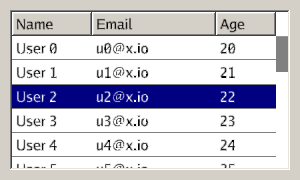
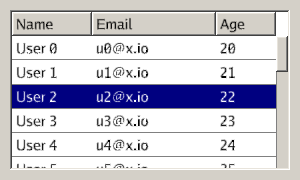
feat(controls): classic restyle — scrollbar thumb, gradient titlebar
Render-only restyle of the scroll thumb (shared by ScrollViewer and the
virtualizer behind ListView/DataGrid) and TitleBar:

- Scroll thumb: replaces the translucent rounded-fill thumb with a flat
  ButtonFace track (1px ButtonShadow inner groove) plus a solid raised
  bevel thumb (bevel.go: new drawScrollThumb helper, used by all three
  draw sites — ScrollViewer, ListView, DataGrid).
- TitleBar: caption background is now a CaptionFrom->CaptionTo horizontal
  gradient (DrawGradientRect), title text recolored CaptionText, and the
  three caption buttons are always-visible raised ButtonFace squares
  (sunken while pressed) with WindowText glyphs — dropping the old
  transparent-at-rest fill and the CloseButtonHover red entirely (classic
  Win2000 close is a plain gray button, not red on hover).

No geometry/drag-math/layout changes; behavior tests pass unchanged.
Regenerated the four affected goldens (scroll, listview, datagrid,
titlebar) and visually confirmed each.

Changed region(s): [[0.9, 0.1944, 0.96, 0.9444]]

diff --git a/controls/titlebar.go b/controls/titlebar.go
@@ -22,9 +22,8 @@ const (
 const captionGlyphSize float32 = 10
 
 // captionKind identifies which of the three caption buttons a captionButton
-// is, driving both its hover fill (close gets the distinct CloseButtonHover
-// red; minimize/maximize get the ordinary ControlFillHover/Pressed) and
-// which glyph shape Render draws.
+// is, driving only which glyph shape Render draws — all three share the
+// same classic raised/sunken bevel look (see Render's doc comment).
 type captionKind uint8
 
 const (
@@ -35,13 +34,12 @@ const (
 
 // captionButton is TitleBar's caption-cell widget: a fixed-size
 // (captionButtonWidth x titleBarHeight), always-enabled, ClickBehavior-
-// driven cell. It draws no text label — Render paints a hover/pressed fill
-// (fully transparent at rest, so the TitleBar's own LayerBackground fill
-// shows through) and a small drawn shape glyph (a line, a square outline, or
-// an X) rather than a text/font glyph: drawn shapes render identically
-// regardless of what glyphs a font happens to carry, unlike e.g. CheckBox's
-// U+2713 fallback dance (see hasCheckmarkGlyph) — simpler and more reliable
-// for chrome this small.
+// driven cell. It draws no text label — Render paints a classic raised
+// (sunken while pressed) bevel and a small drawn shape glyph (a line, a
+// square outline, or an X) rather than a text/font glyph: drawn shapes
+// render identically regardless of what glyphs a font happens to carry,
+// unlike e.g. CheckBox's U+2713 fallback dance (see hasCheckmarkGlyph) —
+// simpler and more reliable for chrome this small.
 type captionButton struct {
 	core.Element
 
@@ -66,41 +64,22 @@ func (b *captionButton) MeasureContent(available render.Size) render.Size {
 	return render.Size{W: captionButtonWidth, H: titleBarHeight}
 }
 
-// fill resolves the cell's background: fully transparent at rest, else
-// ControlFillHover/ControlFillPressed for minimize/maximize, or the
-// distinct CloseButtonHover red for close — for BOTH its hover and pressed
-// states, matching the conventional close button (which uses one red for both,
-// relying on the OS compositor's press-flash for pressed feedback, not a
-// second red shade — fluo does not attempt to reproduce that flash here).
-func (b *captionButton) fill() render.Color {
-	hot := b.click.Hover() || b.click.Pressed()
-	if !hot {
-		return render.Color{}
-	}
-	if b.kind == captionClose {
-		return b.colors.CloseButtonHover
-	}
-	if b.click.Pressed() {
-		return b.colors.ControlFillPressed
-	}
-	return b.colors.ControlFillHover
-}
-
-// glyphColor is TextPrimary normally, or AccentText (white, in both bundled
-// themes) while the close button's red fill is showing, for contrast.
-func (b *captionButton) glyphColor() render.Color {
-	if b.kind == captionClose && (b.click.Hover() || b.click.Pressed()) {
-		return b.colors.AccentText
-	}
-	return b.colors.TextPrimary
-}
-
-// Render paints the hover/pressed fill (if any, per fill) then the button's
-// glyph shape, both centered within the cell's own bounds.
+// Render paints the button's classic bevel — raised at rest and while
+// hovered, sunken while pressed (drawRaised/drawSunken, the same two states
+// any other push button in this package uses) — then the button's glyph
+// shape in WindowText, both centered within the cell's own bounds. The OLD
+// look drew a fully transparent rest/hover fill with a distinct
+// CloseButtonHover red reserved for the close button (relying on the
+// TitleBar's own LayerBackground showing through at rest); the classic
+// restyle drops that entirely — a Win2000 close button is a plain gray
+// raised square, not red on hover — so all three caption buttons share one
+// look and only differ by glyph.
 func (b *captionButton) Render(r render.Renderer) {
 	bounds := b.Bounds()
-	if fill := b.fill(); fill.A > 0 {
-		r.FillRect(bounds, fill)
+	if b.click.Pressed() {
+		drawSunken(r, bounds, b.colors.ButtonFace, b.colors)
+	} else {
+		drawRaised(r, bounds, b.colors.ButtonFace, b.colors)
 	}
 
 	g := render.Rect{
@@ -108,7 +87,7 @@ func (b *captionButton) Render(r render.Renderer) {
 		Y: bounds.Y + (bounds.H-captionGlyphSize)/2,
 		W: captionGlyphSize, H: captionGlyphSize,
 	}
-	color := b.glyphColor()
+	color := b.colors.WindowText
 	switch b.kind {
 	case captionMinimize:
 		// A single horizontal line ("–") centered in the glyph box.
@@ -157,10 +136,13 @@ func dab(r render.Renderer, cx, cy, thickness float32, c render.Color) {
 }
 
 // TitleBar is a full-width, fixed-height (titleBarHeight) window-chrome
-// widget: a title label at the left (BodySize face, TextPrimary — the
+// widget: a title label at the left (BodySize face, CaptionText — the
 // caller supplies a BodySize face, matching every other control in this
 // package) and three caption buttons (minimize/maximize/close) right-
-// aligned (close rightmost), filled with LayerBackground.
+// aligned (close rightmost), over a CaptionFrom→CaptionTo horizontal
+// gradient (the classic active-caption look; TitleBar does not track
+// window active/inactive state, so it always draws the active gradient —
+// InactiveCaption is unused here).
 //
 // TitleBar knows nothing about the actual OS window: minimize/maximize/
 // close are just callbacks (OnMinimize/OnMaximize/OnClose), and dragging is
@@ -192,7 +174,7 @@ func NewTitleBar(face *text.Face, title string) *TitleBar {
 	t.colors = th.Color
 	t.metrics = th.Metric
 
-	t.title = NewTextBlock(face, title)
+	t.title = NewTextBlock(face, title).SetColor(t.colors.CaptionText)
 	core.SetParent(t.title, t)
 
 	t.min = newCaptionButton(captionMinimize)
@@ -296,10 +278,11 @@ func (t *TitleBar) ArrangeContent(bounds render.Rect) {
 	core.ArrangeWidget(t.title, render.Rect{X: tx, Y: ty, W: tw, H: titleD.H})
 }
 
-// Render fills the bar's own bounds with LayerBackground; the title and
-// caption buttons render separately as children (see Children).
+// Render paints the bar's own bounds with the classic active-caption
+// horizontal gradient (CaptionFrom -> CaptionTo); the title and caption
+// buttons render separately as children (see Children).
 func (t *TitleBar) Render(r render.Renderer) {
-	r.FillRect(t.Bounds(), t.colors.LayerBackground)
+	r.DrawGradientRect(t.Bounds(), t.colors.CaptionFrom, t.colors.CaptionTo, true)
 }
 
 // Children returns the title label and the three caption buttons, in that

diff --git a/controls/virtualizer.go b/controls/virtualizer.go
@@ -45,11 +45,12 @@ type virtualizer struct {
 	// thumb's top edge at drag start, exactly like ScrollViewer.dragGrabY.
 	dragGrabY float32
 
-	// gutter, thumbColor, and thumbRadius are captured from theme.Active()
-	// at construction, matching ScrollViewer's own capture convention.
-	gutter      float32
-	thumbColor  render.Color
-	thumbRadius float32
+	// gutter is captured from theme.Active() at construction, matching
+	// ScrollViewer's own capture convention. Thumb/track colors are NOT
+	// captured here: the owning control (ListView, DataGrid) already holds
+	// its own `colors theme.ColorTokens` field and passes it directly to
+	// drawScrollThumb from its own RenderOverlay.
+	gutter float32
 }
 
 // totalHeight returns rowH * count(), the full (unvirtualized) content
@@ -202,15 +203,13 @@ func (v *virtualizer) dragTo(posY float32) {
 // initVirtualizer captures the theme-derived fields every virtualizer-owning
 // control sets identically at construction (ListView, DataGrid — both
 // embed a virtualizer by value and call this from their own New* func):
-// the thumb gutter/color/radius (ScrollViewer's own conventions, per the
-// type doc comment above) and the default row height
-// (defaultRowHeight(face, t), in listview.go). v.count is deliberately left
-// for the caller to set afterward — that closure differs per owner (it
-// reads items.Len() for ListView, g.rowCount for DataGrid) and has no
-// theme-derived default to share.
+// the thumb gutter (ScrollViewer's own convention, per the type doc comment
+// above) and the default row height (defaultRowHeight(face, t), in
+// listview.go). v.count is deliberately left for the caller to set
+// afterward — that closure differs per owner (it reads items.Len() for
+// ListView, g.rowCount for DataGrid) and has no theme-derived default to
+// share.
 func initVirtualizer(v *virtualizer, face *text.Face, t *theme.Theme) {
 	v.gutter = t.Metric.ScrollGutter
-	v.thumbColor = t.Color.ScrollThumb
-	v.thumbRadius = t.Metric.ControlCornerRadius
 	v.rowH = defaultRowHeight(face, t)
 }

diff --git a/controls/scrollviewer.go b/controls/scrollviewer.go
@@ -45,12 +45,12 @@ type ScrollViewer struct {
 	// edge to the cursor.
 	dragGrabY float32
 
-	// gutter, thumbColor, and thumbRadius are captured from theme.Active()
-	// at construction (see NewScrollViewer); structural constants (thumb
-	// min height, wheel step) are not themed.
-	gutter      float32
-	thumbColor  render.Color
-	thumbRadius float32
+	// gutter is captured from theme.Active() at construction (see
+	// NewScrollViewer); structural constants (thumb min height, wheel step)
+	// are not themed. colors is the full classic token set, needed by
+	// RenderOverlay's drawScrollThumb call (raised thumb bevel + track).
+	gutter float32
+	colors theme.ColorTokens
 }
 
 // NewScrollViewer returns an empty ScrollViewer with no child and offset 0,
@@ -58,9 +58,8 @@ type ScrollViewer struct {
 func NewScrollViewer() *ScrollViewer {
 	t := theme.Active()
 	return &ScrollViewer{
-		gutter:      t.Metric.ScrollGutter,
-		thumbColor:  t.Color.ScrollThumb,
-		thumbRadius: t.Metric.ControlCornerRadius,
+		gutter: t.Metric.ScrollGutter,
+		colors: t.Color,
 	}
 }
 
@@ -232,15 +231,17 @@ func (s *ScrollViewer) thumbRect() (render.Rect, bool) {
 	return render.Rect{X: track.X, Y: thumbY, W: track.W, H: thumbH}, true
 }
 
-// RenderOverlay implements core.OverlayRenderer, drawing the thumb (a
-// rounded-rect fill in the theme's ScrollThumb color, captured at
-// construction) above the clipped child when there is content to scroll to.
+// RenderOverlay implements core.OverlayRenderer, drawing the classic
+// scrollbar track+thumb (drawScrollThumb — a flat ButtonFace track with a
+// raised ButtonFace thumb) above the clipped child when there is content to
+// scroll to.
 func (s *ScrollViewer) RenderOverlay(r render.Renderer) {
-	rect, ok := s.thumbRect()
+	track, _, ok := s.thumbGeometry()
 	if !ok {
 		return
 	}
-	r.FillRoundedRect(rect, s.thumbRadius, s.thumbColor)
+	thumb, _ := s.thumbRect()
+	drawScrollThumb(r, track, thumb, s.colors)
 }
 
 // dragTo recomputes rawOffset from a drag's current pointer y-position,

diff --git a/controls/bevel.go b/controls/bevel.go
@@ -66,6 +66,22 @@ func drawGroove(r render.Renderer, rect render.Rect, horizontal bool, c theme.Co
 	r.FillRect(render.Rect{X: cx + 1, Y: rect.Y, W: 1, H: rect.H}, c.ButtonHighlight)
 }
 
+// drawScrollThumb paints a classic scrollbar's track and thumb, replacing
+// the pre-restyle translucent rounded thumb (drawn alone, over whatever
+// background showed through the gutter) shared by ScrollViewer and the
+// virtualizer behind ListView/DataGrid: the track is a flat `c.ButtonFace`
+// fill with a 1px `c.ButtonShadow` groove line on its inner edge (the edge
+// bordering the scrolled content, i.e. `track`'s own left edge for a
+// right-side vertical scrollbar) so it reads as a shallow well, then the
+// thumb is painted as a solid raised bevel (drawRaised) so it stands out
+// against the flat track. Geometry (both rects) is entirely the caller's —
+// this only changes how they are painted.
+func drawScrollThumb(r render.Renderer, track, thumb render.Rect, c theme.ColorTokens) {
+	r.FillRect(track, c.ButtonFace)
+	r.FillRect(render.Rect{X: track.X, Y: track.Y, W: 1, H: track.H}, c.ButtonShadow)
+	drawRaised(r, thumb, c.ButtonFace, c)
+}
+
 // drawFocusRect paints the classic 1px inset focus rectangle (Highlight
 // color), one pixel inside rect, as four 1px-thick edge FillRects forming
 // the border of the inset rectangle. A solid line; the classic dotted XOR

diff --git a/controls/listview.go b/controls/listview.go
@@ -523,14 +523,16 @@ func (l *ListView) ClipRect() (render.Rect, bool) {
 	return l.contentBounds(), true
 }
 
-// RenderOverlay implements core.OverlayRenderer, drawing the thumb above the
-// clipped rows when there is content to scroll to (matching
-// ScrollViewer.RenderOverlay), then the focus ring while focused — per the
-// global focus constraint shared by every focusable control in this
-// package (Slider, ComboBox, ...) — drawn last so it sits above the thumb.
+// RenderOverlay implements core.OverlayRenderer, drawing the classic
+// track+thumb (drawScrollThumb, matching ScrollViewer.RenderOverlay) above
+// the clipped rows when there is content to scroll to, then the focus ring
+// while focused — per the global focus constraint shared by every
+// focusable control in this package (Slider, ComboBox, ...) — drawn last so
+// it sits above the thumb.
 func (l *ListView) RenderOverlay(r render.Renderer) {
-	if rect, ok := l.thumbRect(); ok {
-		r.FillRoundedRect(rect, l.thumbRadius, l.thumbColor)
+	if track, _, ok := l.thumbGeometry(); ok {
+		thumb, _ := l.thumbRect()
+		drawScrollThumb(r, track, thumb, l.colors)
 	}
 	if l.focused {
 		drawFocusRing(r, l.Bounds(), l.colors)

diff --git a/controls/datagrid.go b/controls/datagrid.go
@@ -490,12 +490,14 @@ func (g *DataGrid) ClipRect() (render.Rect, bool) {
 	return inset.Inset(render.Thickness{Top: g.headerHeight()}), true
 }
 
-// RenderOverlay implements core.OverlayRenderer, drawing the thumb above the
-// clipped body rows when there is content to scroll to, then the focus ring
-// while focused — matching ListView.RenderOverlay exactly.
+// RenderOverlay implements core.OverlayRenderer, drawing the classic
+// track+thumb (drawScrollThumb) above the clipped body rows when there is
+// content to scroll to, then the focus ring while focused — matching
+// ListView.RenderOverlay exactly.
 func (g *DataGrid) RenderOverlay(r render.Renderer) {
-	if rect, ok := g.thumbRect(); ok {
-		r.FillRoundedRect(rect, g.thumbRadius, g.thumbColor)
+	if track, _, ok := g.thumbGeometry(); ok {
+		thumb, _ := g.thumbRect()
+		drawScrollThumb(r, track, thumb, g.colors)
 	}
 	if g.focused {
 		drawFocusRing(r, g.Bounds(), g.colors)
